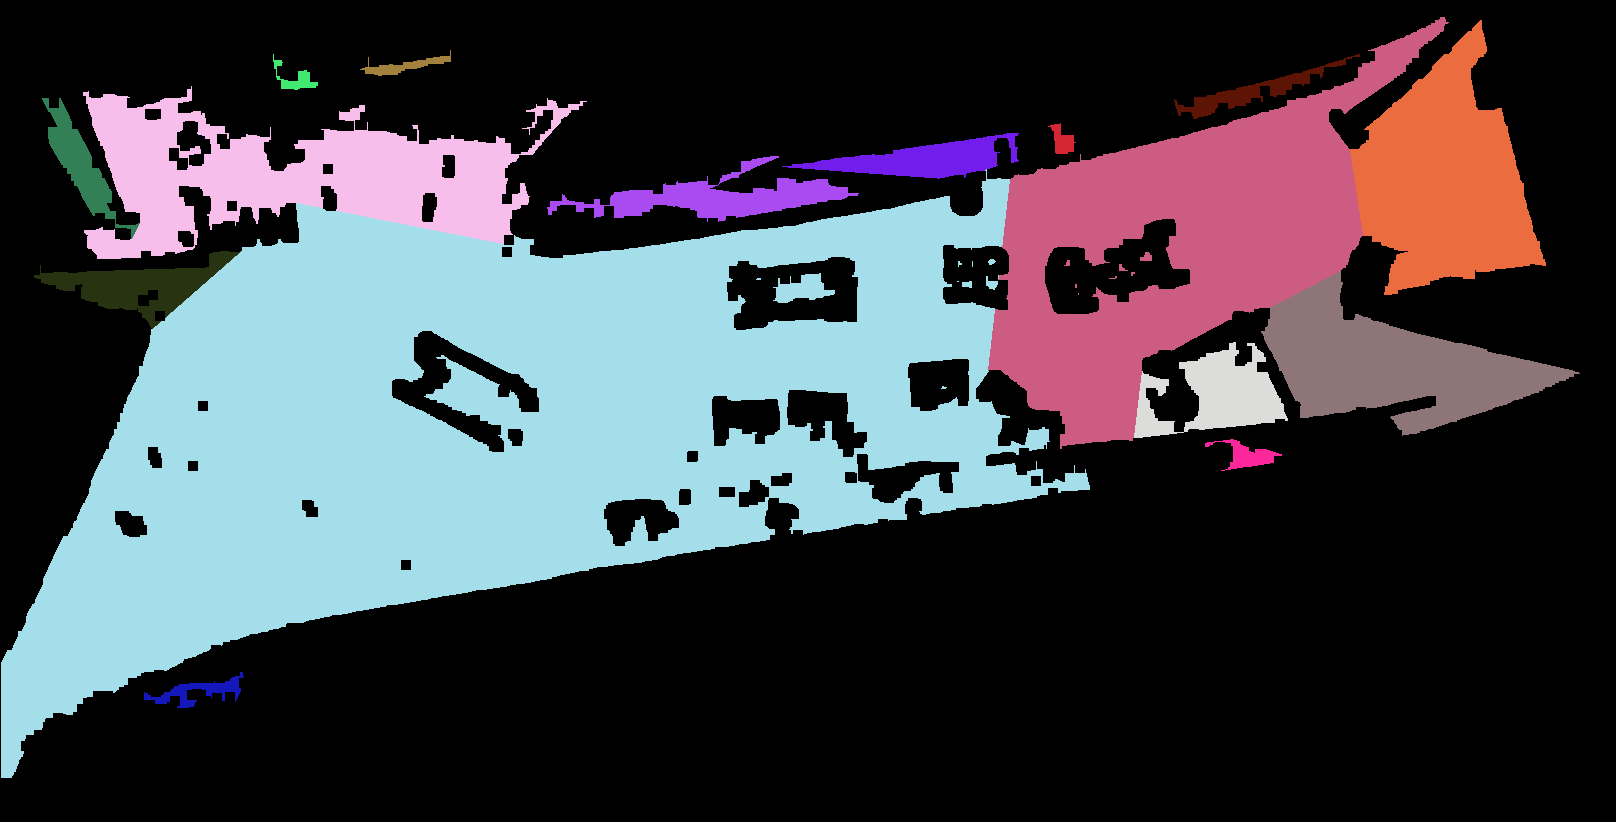
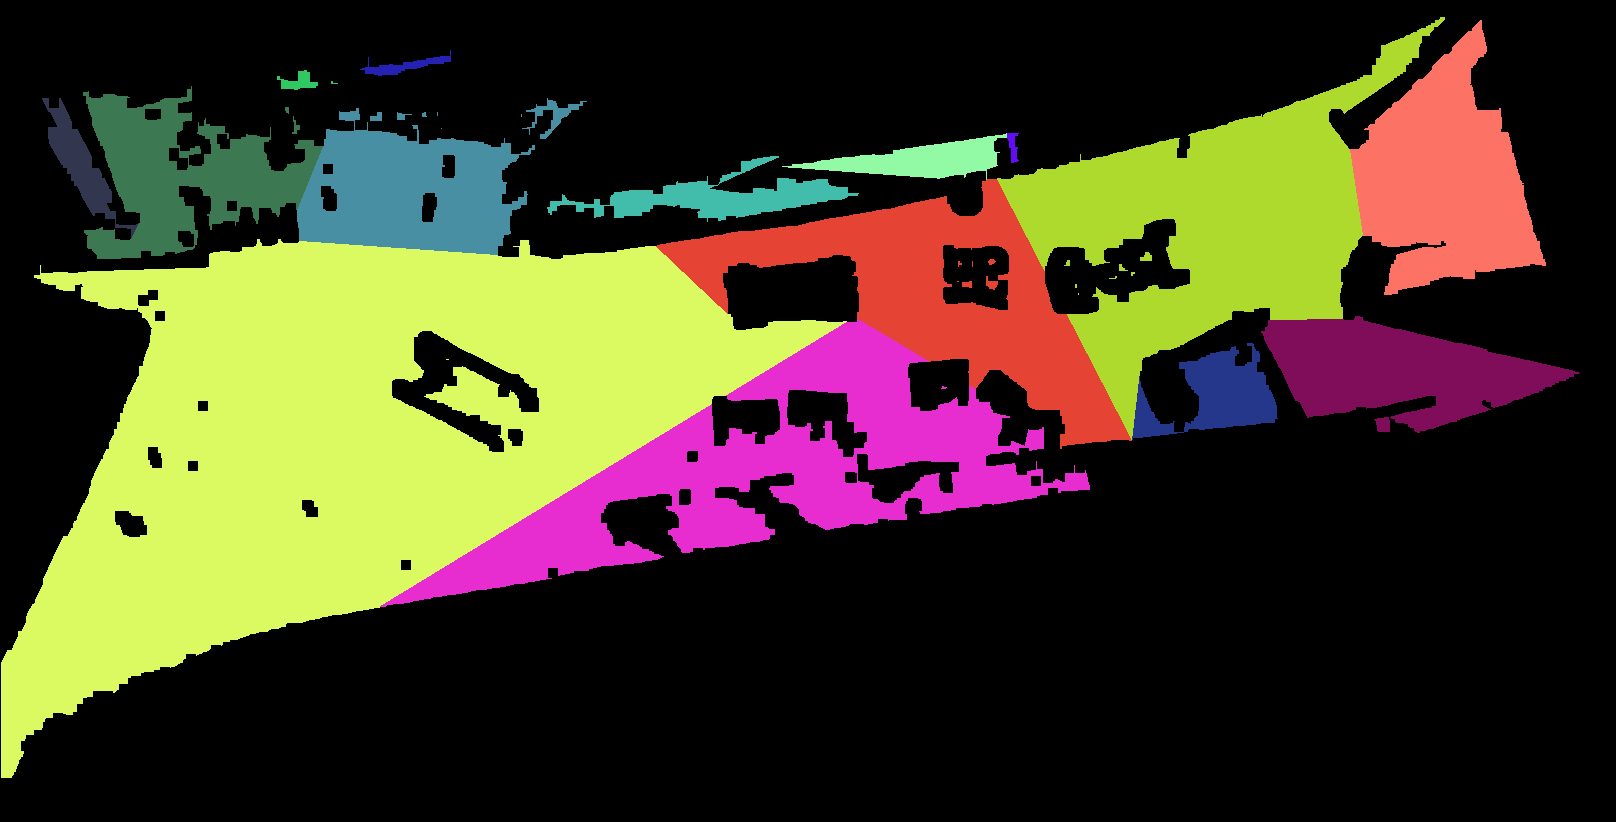
with map saving

diff --git a/src/inc_dude.cpp b/src/inc_dude.cpp
@@ -1,6 +1,7 @@
 //ROS
 #include "ros/ros.h"
 #include "nav_msgs/GetMap.h"
+#include "std_msgs/String.h"
 
 //openCV
 #include <cv_bridge/cv_bridge.h>
@@ -26,6 +27,7 @@ class ROS_handler
 		
 	std::string mapname_;
 	ros::Subscriber map_sub_;	
+	ros::Subscriber chat_sub_;	
 	ros::Timer timer;
 			
 	float Decomp_threshold_;
@@ -40,6 +42,7 @@ class ROS_handler
 		{
 			ROS_INFO("Waiting for the map");
 			map_sub_ = n.subscribe("map", 2, &ROS_handler::mapCallback, this); //mapname_ to include different name
+			chat_sub_ = n.subscribe("chat", 2, &ROS_handler::chatCallback, this); //mapname_ to include different name
 			timer = n.createTimer(ros::Duration(0.5), &ROS_handler::metronomeCallback, this);
 
 			image_pub_ = it_.advertise("/tagged_image", 1);			
@@ -94,7 +97,7 @@ class ROS_handler
 			end_process = getTime();	occupancy_time = end_process - begin_process;
 
 
-//			Incremental_Decomposer inc_decomp_batch;
+			Incremental_Decomposer inc_decomp_batch;
 
 		///////////////////////// Decompose Image
 			begin_process = getTime();
@@ -120,8 +123,8 @@ class ROS_handler
 			big(first_rect).copyTo(grad);
 
 //*/	
-			
-			grad = Stable.draw_stable_contour();	
+			cv::flip(black_image, black_image,0); 
+			grad = Stable.draw_stable_contour() & ~black_image;	
 //			grad = image_cleaned;	
 
 			cv_ptr->encoding = sensor_msgs::image_encodings::TYPE_32FC1;			grad.convertTo(grad, CV_32F);
@@ -177,7 +180,15 @@ class ROS_handler
 		  publish_Image();
 		}
 
-
+///////////////
+		void chatCallback(const std_msgs::String& chat){
+			int a=1;
+			std::cout << "Chat time" << std::endl;
+			cv::Mat integer_image, float_image;
+			float_image = cv_ptr->image.clone();
+			float_image.convertTo(integer_image, CV_8UC1);
+			save_images_color(integer_image);
+		}
 
 
 ////////////////////////

diff --git a/include/inc_decomp.cpp b/include/inc_decomp.cpp
@@ -8,11 +8,12 @@
 			drawContours(Drawing, Region_contour, i, i+1, -1, 8);
 		}
 		cv::flip(Drawing,Drawing,0);
-		for(int i = 0; i < Region_centroid.size();i++){
+/*		for(int i = 0; i < Region_centroid.size();i++){
 			stringstream mix;      mix<<i;				std::string text = mix.str();
 			putText(Drawing, text, cv::Point(Region_centroid[i].x, image_size.height - Region_centroid[i].y ), 
 												cv::FONT_HERSHEY_SCRIPT_SIMPLEX, 0.5, Region_centroid.size()+1, 1, 8);
 		}	
+		* */
 		return Drawing;
 	}
 
